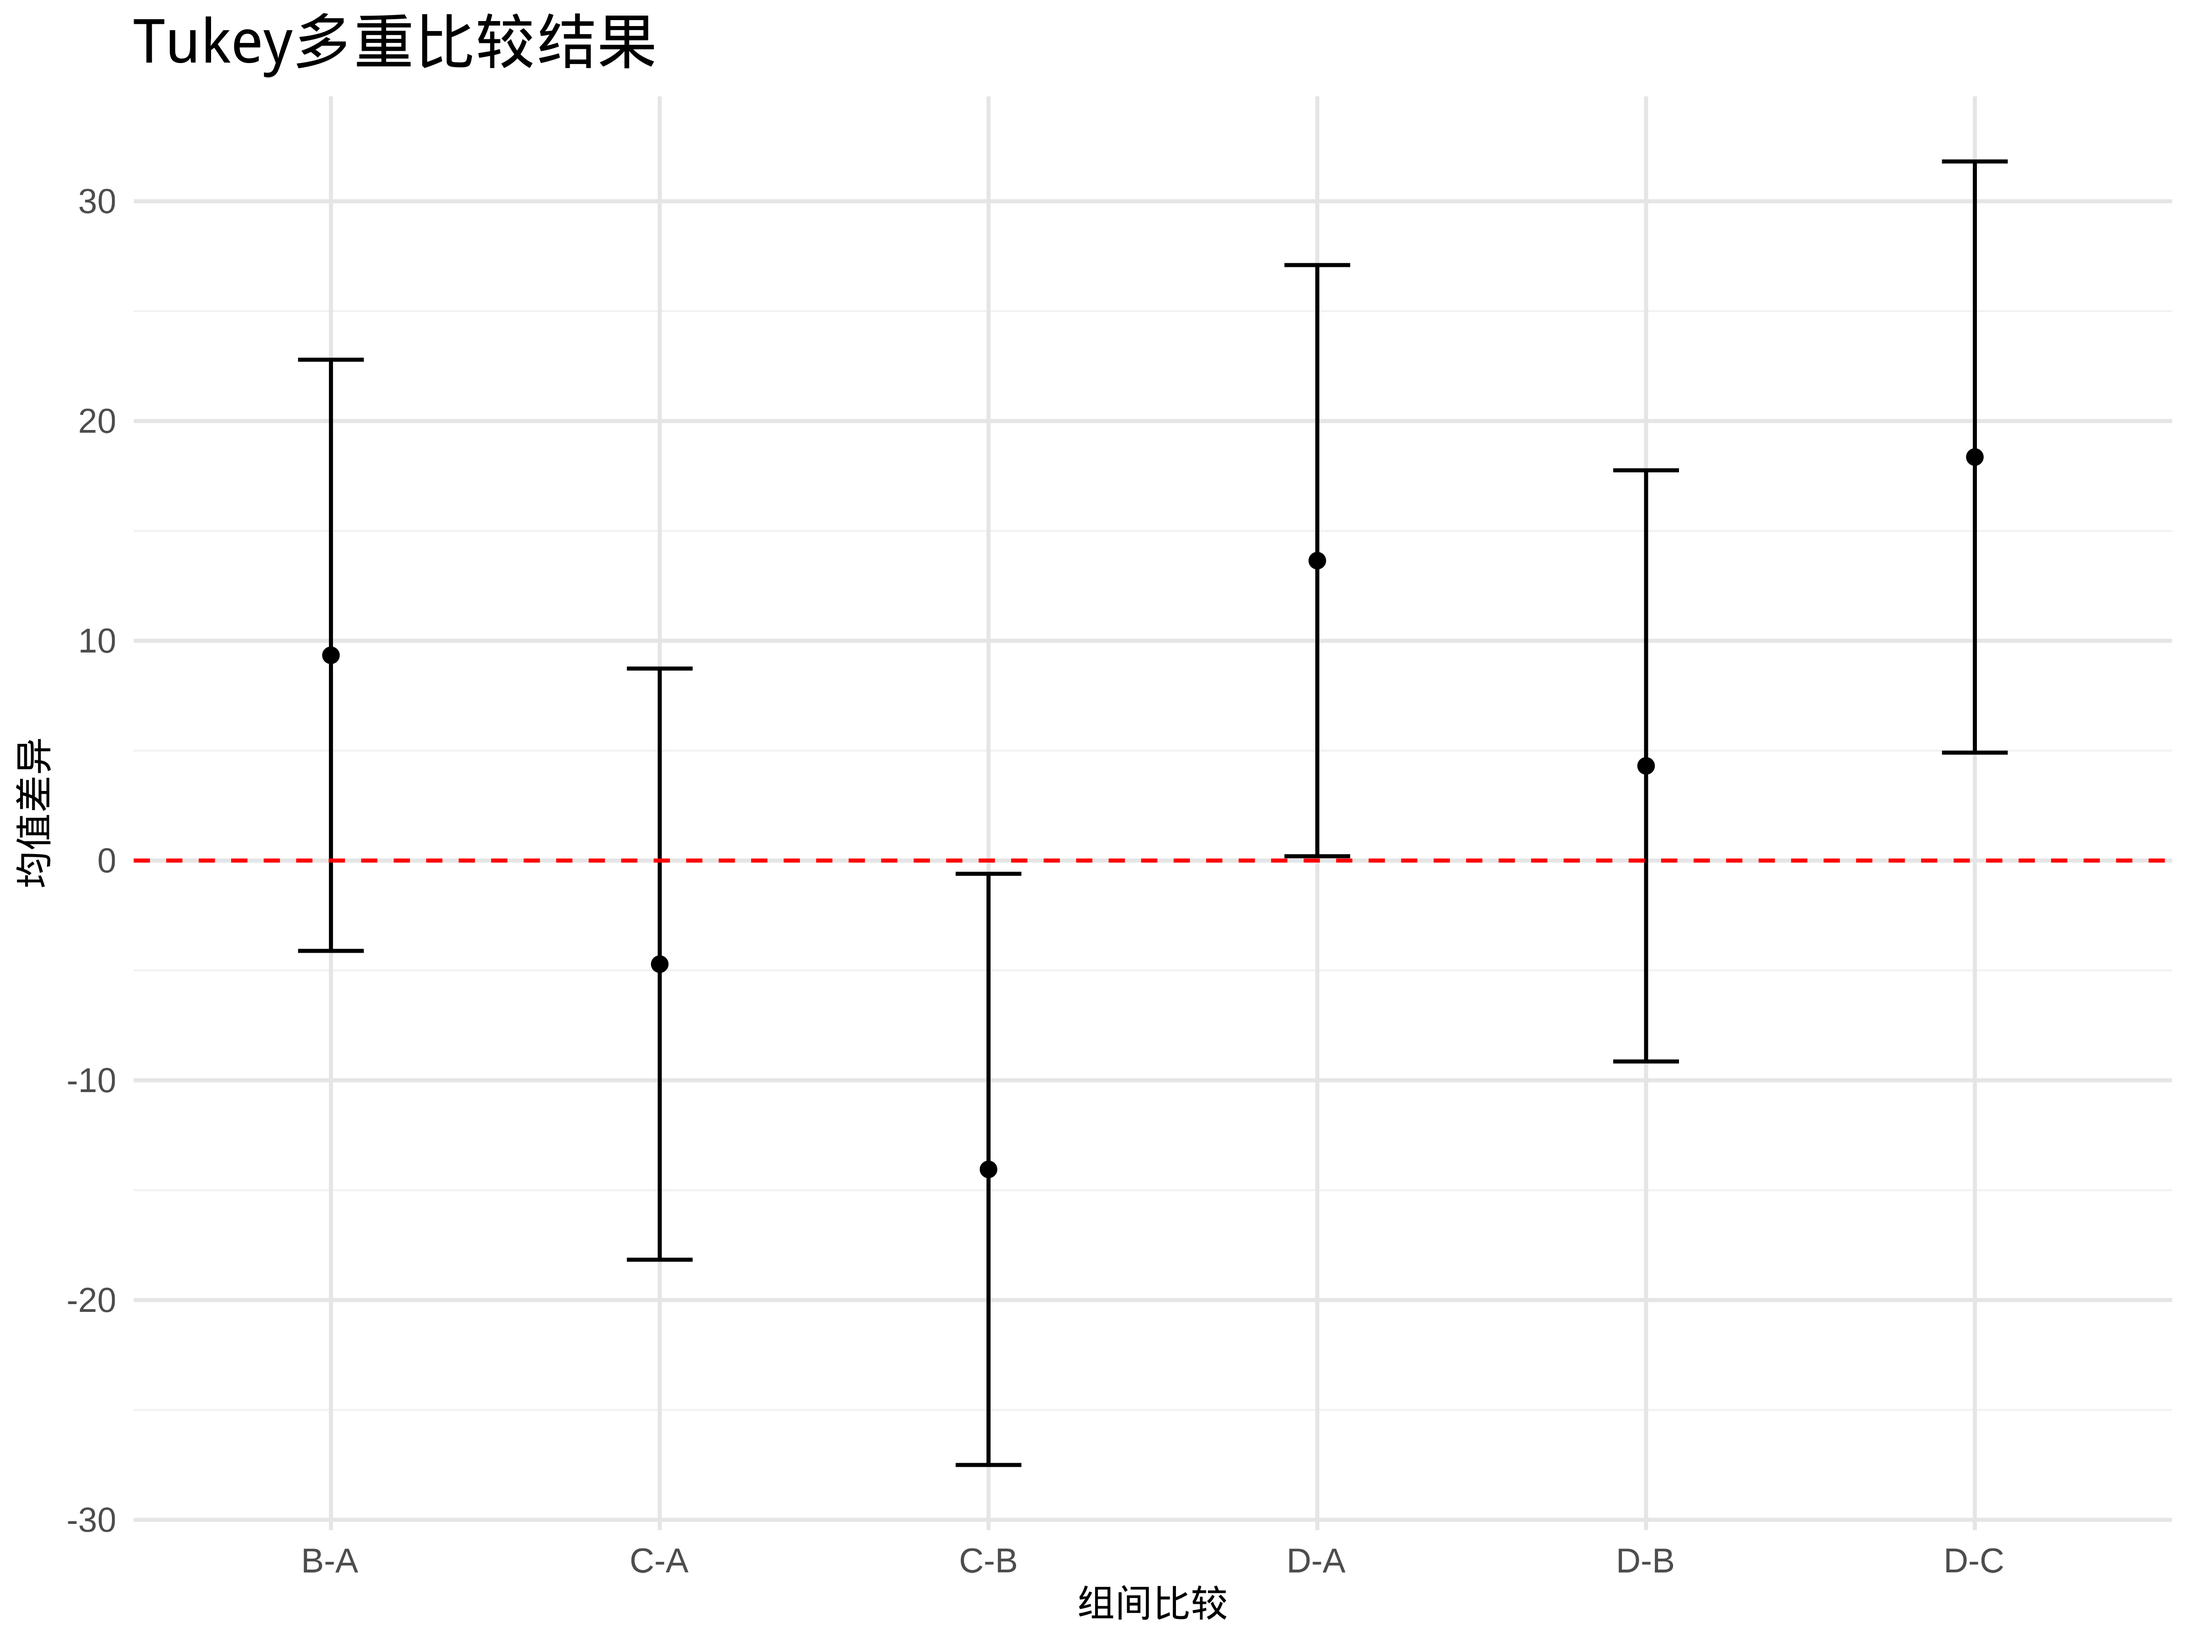
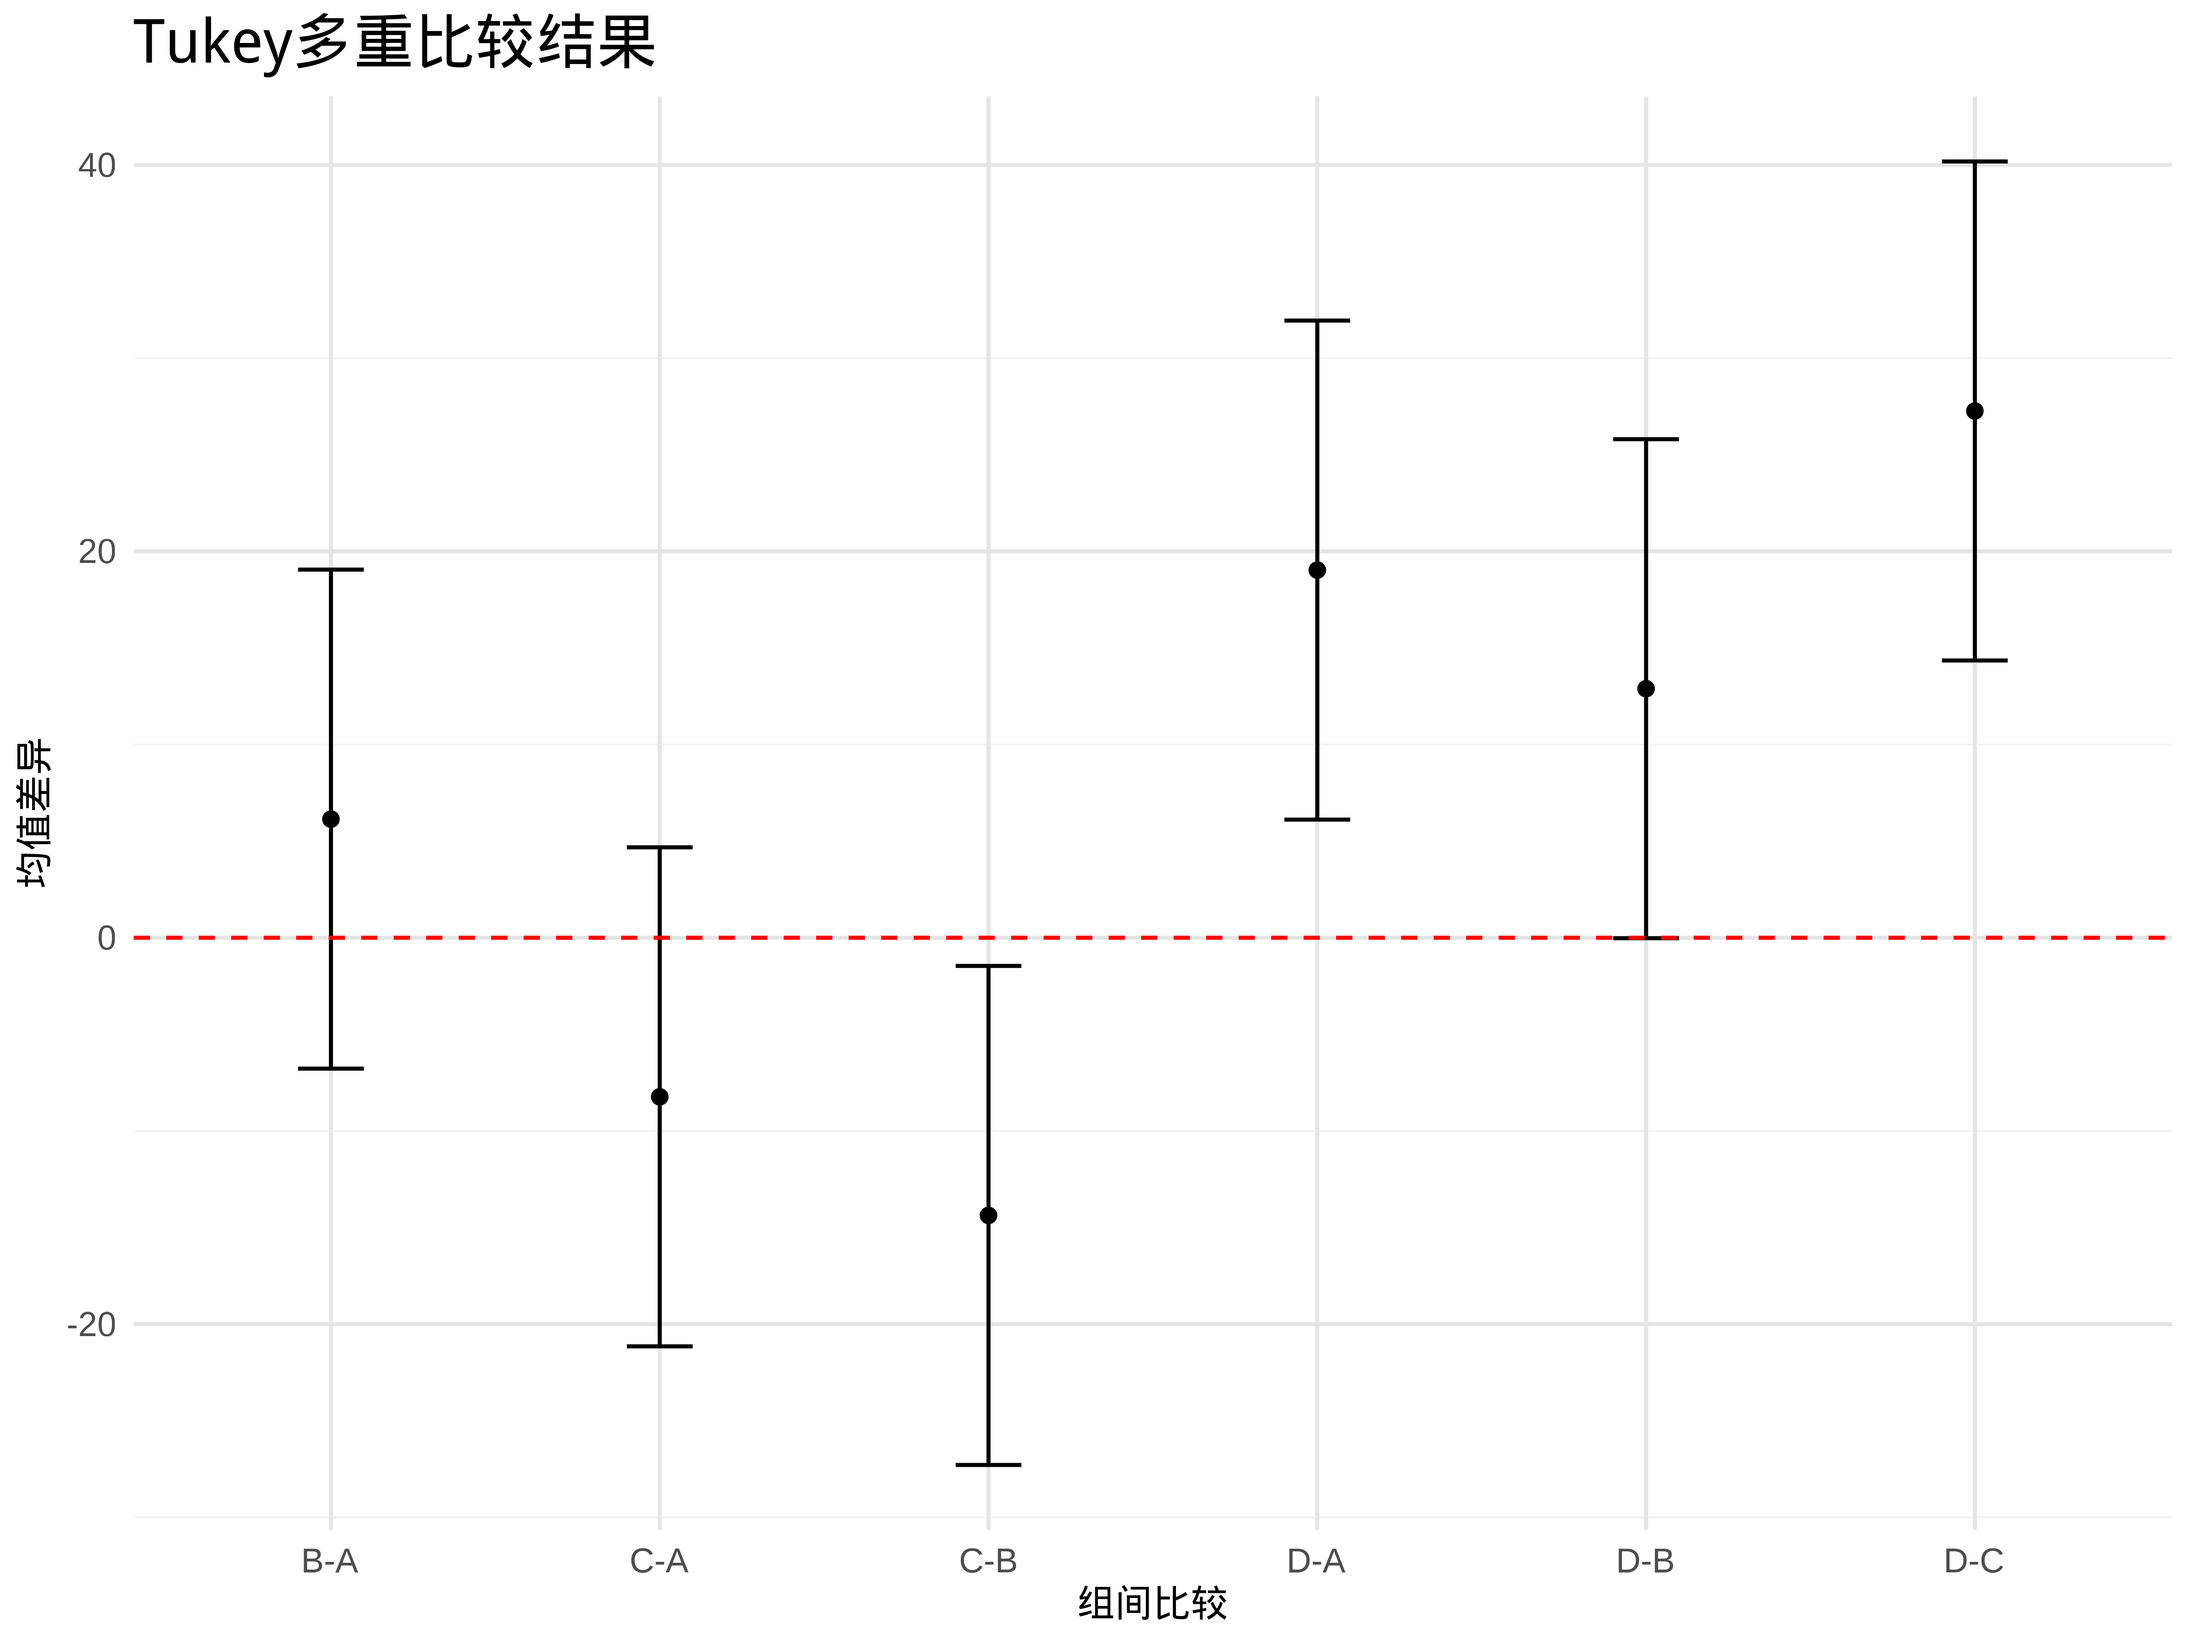
1

diff --git a/_book/week5.html b/_book/week5.html
@@ -357,10 +357,10 @@ window.Quarto = {
 <pre><code># A tibble: 4 × 2
   campaign shapiro_p_value
   &lt;chr&gt;              &lt;dbl&gt;
-1 A                  0.547
-2 B                  0.945
-3 C                  0.531
-4 D                  0.602</code></pre>
+1 A                  0.930
+2 B                  0.302
+3 C                  0.541
+4 D                  0.970</code></pre>
 </div>
 <div class="sourceCode cell-code" id="cb4"><pre class="sourceCode r code-with-copy"><code class="sourceCode r"><span id="cb4-1"><a href="#cb4-1" aria-hidden="true" tabindex="-1"></a><span class="co"># 检验方差齐性</span></span>
 <span id="cb4-2"><a href="#cb4-2" aria-hidden="true" tabindex="-1"></a><span class="co">#   - 原假设 (H0): 各组别总体方差相等</span></span>
@@ -369,11 +369,9 @@ window.Quarto = {
 <span id="cb4-5"><a href="#cb4-5" aria-hidden="true" tabindex="-1"></a><span class="fu">leveneTest</span>(sales <span class="sc">~</span> campaign, <span class="at">data =</span> marketing_data) <span class="co"># Levene's 检验 - 检验方差齐性</span></span></code><button title="Copy to Clipboard" class="code-copy-button"><i class="bi"></i></button></pre></div>
 <div class="cell-output cell-output-stdout">
 <pre><code>Levene's Test for Homogeneity of Variance (center = median)
-       Df F value   Pr(&gt;F)   
-group   3  5.1449 0.002242 **
-      116                    
----
-Signif. codes:  0 '***' 0.001 '**' 0.01 '*' 0.05 '.' 0.1 ' ' 1</code></pre>
+       Df F value Pr(&gt;F)
+group   3  1.4566 0.2301
+      116               </code></pre>
 </div>
 </div>
 </section>
@@ -450,9 +448,9 @@ Signif. codes:  0 '***' 0.001 '**' 0.01 '*' 0.05 '.' 0.1 ' ' 1</code></pre>
 <span id="cb6-2"><a href="#cb6-2" aria-hidden="true" tabindex="-1"></a>aov_result <span class="ot">&lt;-</span> <span class="fu">aov</span>(sales <span class="sc">~</span> campaign, <span class="at">data =</span> marketing_data)</span>
 <span id="cb6-3"><a href="#cb6-3" aria-hidden="true" tabindex="-1"></a><span class="fu">summary</span>(aov_result)</span></code><button title="Copy to Clipboard" class="code-copy-button"><i class="bi"></i></button></pre></div>
 <div class="cell-output cell-output-stdout">
-<pre><code>             Df Sum Sq Mean Sq F value  Pr(&gt;F)   
-campaign      3   6366  2122.1   5.313 0.00182 **
-Residuals   116  46330   399.4                   
+<pre><code>             Df Sum Sq Mean Sq F value   Pr(&gt;F)    
+campaign      3  11877    3959   10.75 2.74e-06 ***
+Residuals   116  42710     368                     
 ---
 Signif. codes:  0 '***' 0.001 '**' 0.01 '*' 0.05 '.' 0.1 ' ' 1</code></pre>
 </div>
@@ -469,12 +467,12 @@ Fit: aov(formula = sales ~ campaign, data = marketing_data)
 
 $campaign
           diff         lwr       upr     p adj
-B-A   9.339435  -4.1112238 22.790093 0.2739193
-C-A  -4.714195 -18.1648531  8.736464 0.7976457
-D-A  13.646459   0.1958004 27.097117 0.0453828
-C-B -14.053629 -27.5042877 -0.602971 0.0369414
-D-B   4.307024  -9.1436342 17.757683 0.8378580
-D-C  18.360653   4.9099951 31.811312 0.0030071</code></pre>
+B-A   6.138836  -6.7756564 19.053328 0.6034096
+C-A  -8.235640 -21.1501326  4.678852 0.3483496
+D-A  19.028038   6.1135458 31.942530 0.0011363
+C-B -14.374476 -27.2889683 -1.459984 0.0227515
+D-B  12.889202  -0.0252899 25.803694 0.0506507
+D-C  27.263678  14.3491862 40.178171 0.0000013</code></pre>
 </div>
 </div>
 <p><strong>结果可视化</strong>：</p>
@@ -535,10 +533,10 @@ D-C  18.360653   4.9099951 31.811312 0.0030071</code></pre>
 <span id="cb12-4"><a href="#cb12-4" aria-hidden="true" tabindex="-1"></a><span class="fu">summary</span>(interaction_model)</span></code><button title="Copy to Clipboard" class="code-copy-button"><i class="bi"></i></button></pre></div>
 <div class="cell-output cell-output-stdout">
 <pre><code>                            Df Sum Sq Mean Sq F value   Pr(&gt;F)    
-price_level                  2   2168    1084   1.706 0.184575    
-consumer_group               1  10021   10021  15.771 0.000104 ***
-price_level:consumer_group   2  38363   19181  30.187 5.57e-12 ***
-Residuals                  174 110563     635                     
+price_level                  2   3775    1888   3.106   0.0473 *  
+consumer_group               1  14133   14133  23.252 3.09e-06 ***
+price_level:consumer_group   2  50542   25271  41.577 1.74e-15 ***
+Residuals                  174 105760     608                     
 ---
 Signif. codes:  0 '***' 0.001 '**' 0.01 '*' 0.05 '.' 0.1 ' ' 1</code></pre>
 </div>
@@ -548,9 +546,9 @@ Signif. codes:  0 '***' 0.001 '**' 0.01 '*' 0.05 '.' 0.1 ' ' 1</code></pre>
 <span id="cb14-4"><a href="#cb14-4" aria-hidden="true" tabindex="-1"></a><span class="fu">summary</span>(main_effects_model)</span></code><button title="Copy to Clipboard" class="code-copy-button"><i class="bi"></i></button></pre></div>
 <div class="cell-output cell-output-stdout">
 <pre><code>                Df Sum Sq Mean Sq F value   Pr(&gt;F)    
-price_level      2   2168    1084   1.281 0.280264    
-consumer_group   1  10021   10021  11.843 0.000723 ***
-Residuals      176 148926     846                     
+price_level      2   3775    1888   2.126    0.122    
+consumer_group   1  14133   14133  15.914 9.71e-05 ***
+Residuals      176 156301     888                     
 ---
 Signif. codes:  0 '***' 0.001 '**' 0.01 '*' 0.05 '.' 0.1 ' ' 1</code></pre>
 </div>
@@ -597,19 +595,19 @@ Signif. codes:  0 '***' 0.001 '**' 0.01 '*' 0.05 '.' 0.1 ' ' 1</code></pre>
 <div class="cell-output cell-output-stdout">
 <pre><code>$ANOVA
        Effect DFn DFd          SSn      SSd            F            p p&lt;.05
-1 (Intercept)   1  29 521993.30656 6686.126 2264.0622673 4.449626e-29     *
-2        time   2  58     41.23278 6028.308    0.1983559 8.206319e-01      
+1 (Intercept)   1  29 532851.79967 5555.766 2.781381e+03 2.326909e-30     *
+2        time   2  58     24.92404 9965.112 7.253277e-02 9.301195e-01      
           ges
-1 0.976221713
-2 0.003232507
+1 0.971696478
+2 0.001603265
 
 $`Mauchly's Test for Sphericity`
-  Effect         W         p p&lt;.05
-2   time 0.9723606 0.6754342      
+  Effect         W        p p&lt;.05
+2   time 0.9718508 0.670493      
 
 $`Sphericity Corrections`
-  Effect      GGe     p[GG] p[GG]&lt;.05      HFe     p[HF] p[HF]&lt;.05
-2   time 0.973104 0.8148575           1.042113 0.8206319          </code></pre>
+  Effect       GGe     p[GG] p[GG]&lt;.05      HFe     p[HF] p[HF]&lt;.05
+2   time 0.9726215 0.9260045           1.041541 0.9301195          </code></pre>
 </div>
 </div>
 <div class="callout callout-style-default callout-note callout-titled">
@@ -674,7 +672,7 @@ $`Sphericity Corrections`
     Kruskal-Wallis rank sum test
 
 data:  sales by campaign
-Kruskal-Wallis chi-squared = 11.083, df = 3, p-value = 0.01128</code></pre>
+Kruskal-Wallis chi-squared = 22.747, df = 3, p-value = 4.56e-05</code></pre>
 </div>
 </div>
 </section>
@@ -737,14 +735,17 @@ Kruskal-Wallis chi-squared = 11.083, df = 3, p-value = 0.01128</code></pre>
 <div class="cell">
 <div class="sourceCode cell-code" id="cb25"><pre class="sourceCode r code-with-copy"><code class="sourceCode r"><span id="cb25-1"><a href="#cb25-1" aria-hidden="true" tabindex="-1"></a><span class="co"># 读取区域销售数据</span></span>
 <span id="cb25-2"><a href="#cb25-2" aria-hidden="true" tabindex="-1"></a>regional_data <span class="ot">&lt;-</span> <span class="fu">read_csv</span>(<span class="st">"data/week5/regional_sales.csv"</span>) <span class="sc">%&gt;%</span></span>
-<span id="cb25-3"><a href="#cb25-3" aria-hidden="true" tabindex="-1"></a>  <span class="fu">mutate</span>(<span class="at">season =</span> <span class="fu">factor</span>(season, <span class="at">levels =</span> <span class="fu">c</span>(<span class="st">"春"</span>, <span class="st">"夏"</span>, <span class="st">"秋"</span>, <span class="st">"冬"</span>)))</span>
-<span id="cb25-4"><a href="#cb25-4" aria-hidden="true" tabindex="-1"></a></span>
-<span id="cb25-5"><a href="#cb25-5" aria-hidden="true" tabindex="-1"></a><span class="co"># 查看数据</span></span>
-<span id="cb25-6"><a href="#cb25-6" aria-hidden="true" tabindex="-1"></a><span class="fu">head</span>(regional_data)</span></code><button title="Copy to Clipboard" class="code-copy-button"><i class="bi"></i></button></pre></div>
+<span id="cb25-3"><a href="#cb25-3" aria-hidden="true" tabindex="-1"></a>  <span class="fu">mutate</span>(</span>
+<span id="cb25-4"><a href="#cb25-4" aria-hidden="true" tabindex="-1"></a>    <span class="at">season =</span> <span class="fu">factor</span>(season, <span class="at">levels =</span> <span class="fu">c</span>(<span class="st">"春"</span>, <span class="st">"夏"</span>, <span class="st">"秋"</span>, <span class="st">"冬"</span>)),</span>
+<span id="cb25-5"><a href="#cb25-5" aria-hidden="true" tabindex="-1"></a>    <span class="at">region =</span> <span class="fu">factor</span>(region, <span class="at">levels =</span> <span class="fu">c</span>(<span class="st">"东区"</span>, <span class="st">"南区"</span>,  <span class="st">"西区"</span>, <span class="st">"北区"</span>))</span>
+<span id="cb25-6"><a href="#cb25-6" aria-hidden="true" tabindex="-1"></a>  )</span>
+<span id="cb25-7"><a href="#cb25-7" aria-hidden="true" tabindex="-1"></a></span>
+<span id="cb25-8"><a href="#cb25-8" aria-hidden="true" tabindex="-1"></a><span class="co"># 查看数据</span></span>
+<span id="cb25-9"><a href="#cb25-9" aria-hidden="true" tabindex="-1"></a><span class="fu">head</span>(regional_data)</span></code><button title="Copy to Clipboard" class="code-copy-button"><i class="bi"></i></button></pre></div>
 <div class="cell-output cell-output-stdout">
 <pre><code># A tibble: 6 × 4
   region season store_id sales
-  &lt;chr&gt;  &lt;fct&gt;  &lt;chr&gt;    &lt;dbl&gt;
+  &lt;fct&gt;  &lt;fct&gt;  &lt;chr&gt;    &lt;dbl&gt;
 1 北区   春     北区-1   1396.
 2 北区   春     北区-2   1322.
 3 北区   春     北区-3   1285.

diff --git a/_book/index.html b/_book/index.html
@@ -7,7 +7,7 @@
 <meta name="viewport" content="width=device-width, initial-scale=1.0, user-scalable=yes">
 
 <meta name="author" content="陆海波">
-<meta name="dcterms.date" content="2025-03-18">
+<meta name="dcterms.date" content="2025-03-19">
 
 <title>统计学与R语言</title>
 <style>
@@ -225,7 +225,7 @@ ul.task-list li input[type="checkbox"] {
     <div>
     <div class="quarto-title-meta-heading">Published</div>
     <div class="quarto-title-meta-contents">
-      <p class="date">March 18, 2025</p>
+      <p class="date">March 19, 2025</p>
     </div>
   </div>
   
